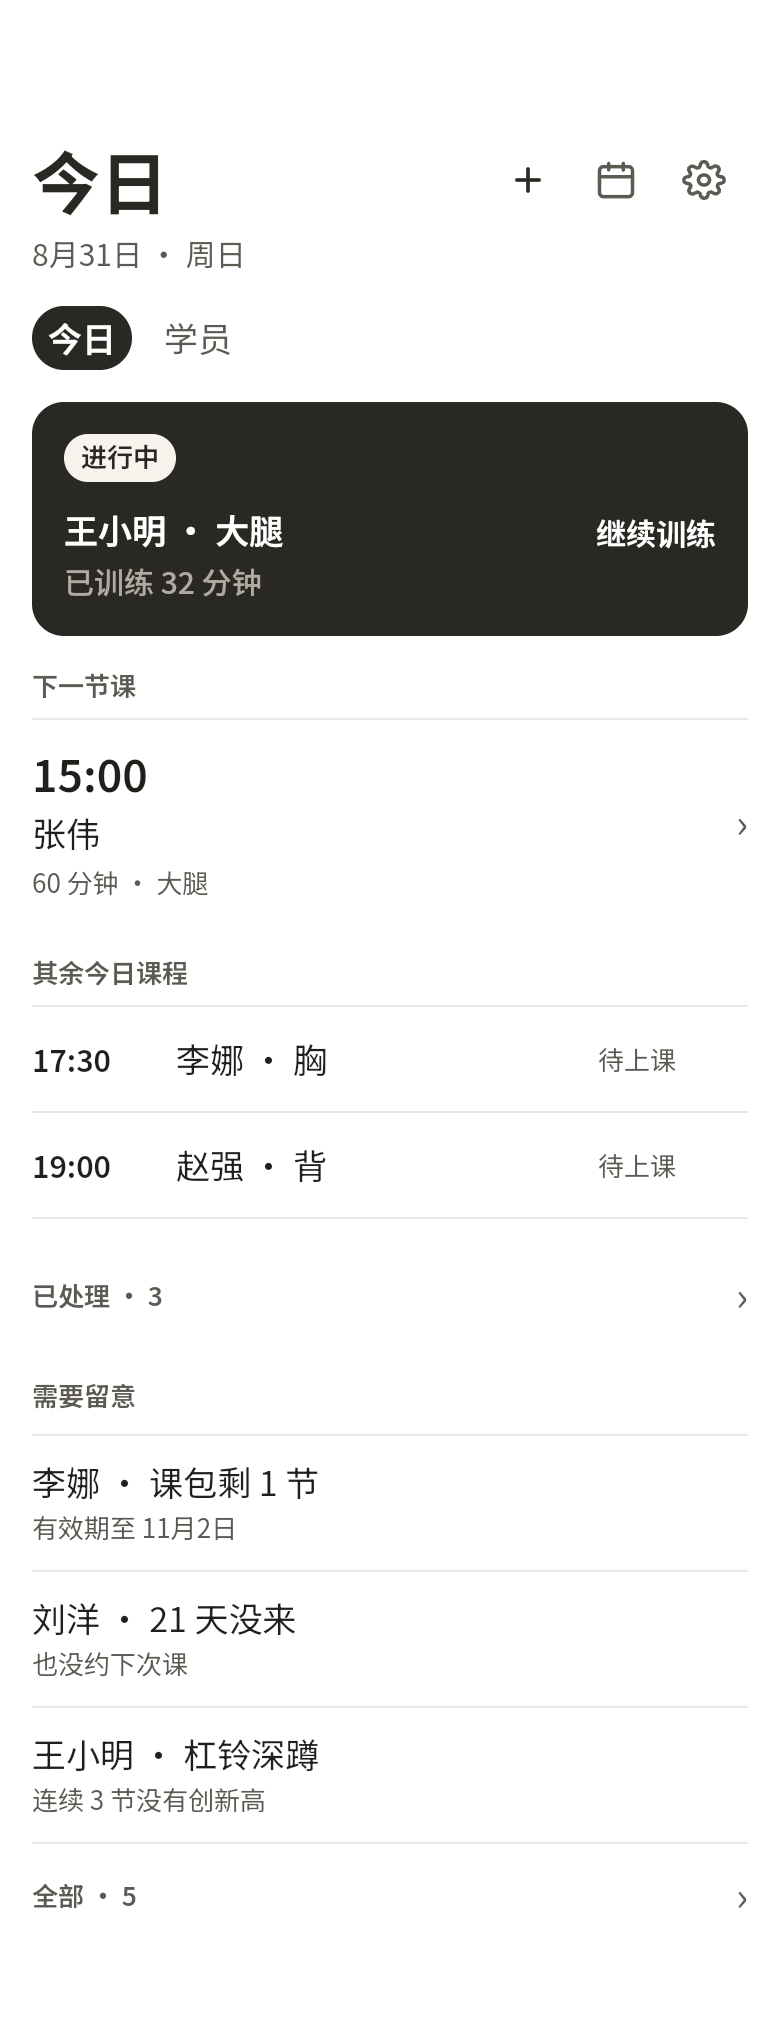
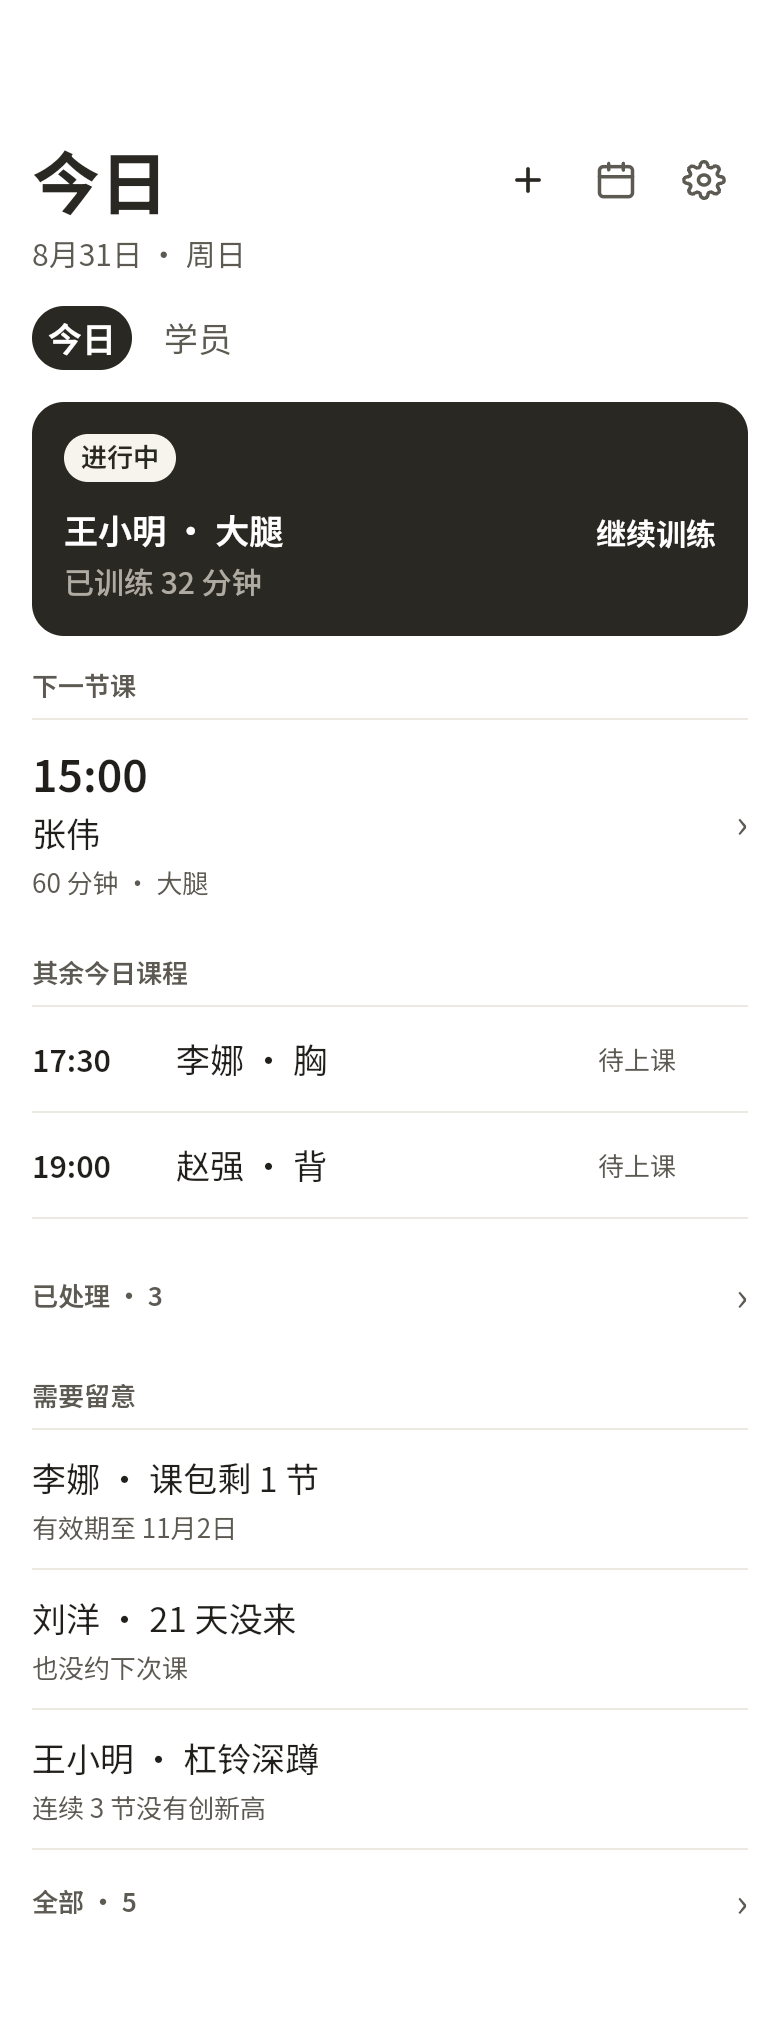
design(s3): today and student-detail S3 boards align insight rows and dividers to DS-LIST-ROW (S3-D13)

diff --git a/android/docs/s3/T002.md b/android/docs/s3/T002.md
@@ -18,11 +18,11 @@ Penpot 文件「M1-B G5 Design」。画板名（可在图层面板搜索「S3 ·
 
 | 文件 | SHA-256 |
 |---|---|
[10 lines of base64/hex data omitted]
 
 `*.map.json` 由 Phase 4/5 实现各核心屏时与 conformance 测试一起建立（同 S1、S2）。
@@ -43,3 +43,4 @@ Penpot 文件「M1-B G5 Design」。画板名（可在图层面板搜索「S3 ·
 - S3-D09（同日）：分段控件按 DS-SEGMENTED 规范改：3 个未选中文字改为 auto-width，居中放在 x=16、74、132 的 50pt 选项框里；选中胶囊宽度 = 文字宽 + 2×`space.2`（89），x=190。依据是 S1-D70 的先例：画板向组件规范对齐。快照：`before S3-D09 …` → `S3-D09 trends segmented …`。哈希已更新。
 - S3-D10（同日）：Back 与行尾箭头按已批准的学员详情画板（26）的画法改：Back 6.5×26，位于 (16, 59.75)；箭头 6×24，x=368。快照：`before S3-D10 …` → `S3-D10 trends back/chevron per approved 26 board 2026-11-20`。Penpot 刷新后重新导出（120632 字节，中文渲染正常），哈希已更新。
 - S3-D11（同日）：图表组「Trend chart (M1 TrendsView)」原来的范围是 (16, 230) 358×140，盖住了同级的「102 kg」标签（y 228～245）和两个日期（y 356～373）。门禁的像素比对按这个组的范围裁切，于是文字字形也被算进了图表的 IoU。现把无填充的 `base-background` 改为绘图区 (16, 246) 358×104：顶部是标签下方 `space.4`，底边是 y=350 的轴线。标签和日期都在组外，PNG 与改前逐字节相同，只回填了 layers 中 11 和 11/0 两层的几何。离线复算：只裁绘图区时 IoU 为 0.84（阈值 0.7）。快照：`before S3-D11 …` → `S3-D11 trends chart group = plot area …`。
+- S3-D13（同日，Phase 5 派活前的画板扫描）：今日 S3 和学员详情 S3 新增的部分按 DS-LIST-ROW 对齐。①提示行改为 `space.3` / `space.1` / `space.3`（原来是 11 / 2 / 13，行距 68 → 70），与同一画板上「下一节课」两行行的写法一致；②今日「需要留意」区块标签到分割线改为 8，与同屏其他区块一致（原来是 11）；③学员详情「记录」区补上「训练历史」与「训练趋势」之间缺的分割线，删掉 y=783.5 处重复的那条。画板高度：今日 1010 → 1013，学员详情 1239 → 1243。文案已逐条对照 iOS `InsightRowContent`，今日和学员详情两处的拼法一致，不用改。快照：`before S3-D13 …` → `S3-D13 today/student-detail S3: insight rows …`。导出后各看了一次渲染，PNG、layers 和哈希已更新。
